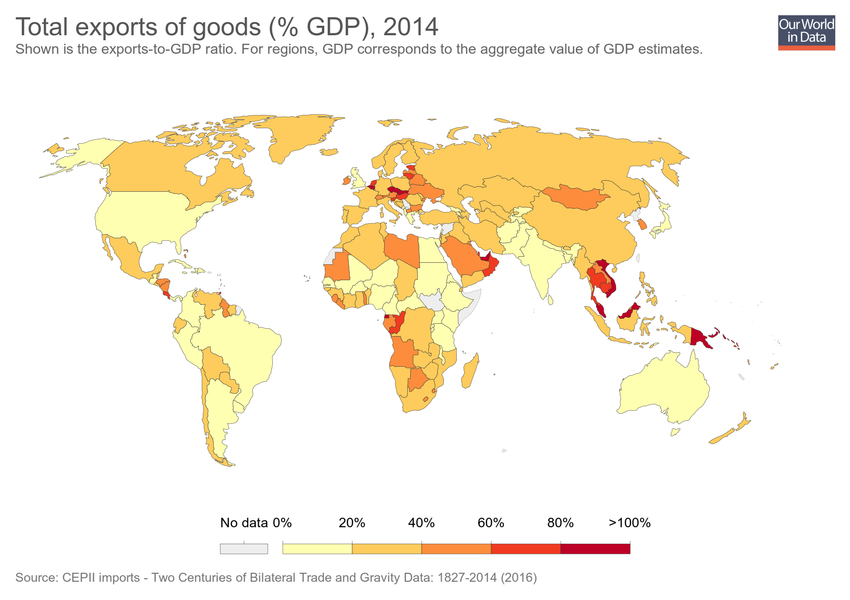
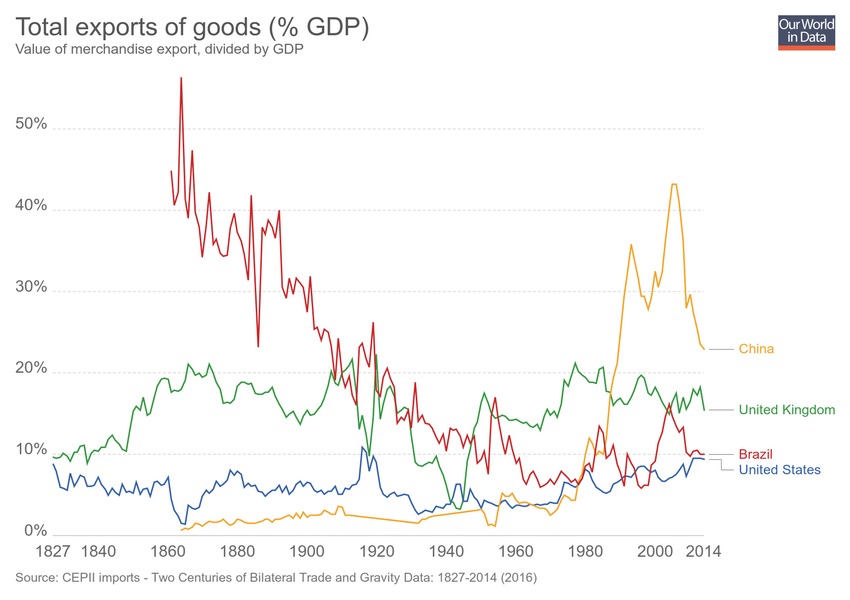
Updating chart merchandise-exports-gdp

diff --git a/grapher/merchandise-exports-gdp.html b/grapher/merchandise-exports-gdp.html
@@ -1,4 +1,4 @@
-<!doctype html><html><head><meta name="viewport" content="width=device-width, initial-scale=1" /><title>Total exports of goods (% GDP) - Our World in Data</title><meta name="description" content="Shown is the exports-to-GDP ratio. For regions, GDP corresponds to the aggregate value of GDP estimates." /><link rel="canonical" href="https://ourworldindata.org/grapher/merchandise-exports-gdp" /><meta property="fb:app_id" content="1149943818390250" /><meta property="og:url" content="https://ourworldindata.org/grapher/merchandise-exports-gdp" /><meta property="og:title" content="Total exports of goods (% GDP)" /><meta property="og:description" content="Shown is the exports-to-GDP ratio. For regions, GDP corresponds to the aggregate value of GDP estimates." /><meta property="og:image" content="https://ourworldindata.org/grapher/exports/merchandise-exports-gdp.png?v=10" /><meta property="og:image:width" content="850" /><meta property="og:image:height" content="600" /><meta property="og:site_name" content="Our World in Data" /><meta name="twitter:card" content="summary_large_image" /><meta name="twitter:site" content="@OurWorldInData" /><meta name="twitter:creator" content="@OurWorldInData" /><meta name="twitter:title" content="Total exports of goods (% GDP)" /><meta name="twitter:description" content="Shown is the exports-to-GDP ratio. For regions, GDP corresponds to the aggregate value of GDP estimates." /><meta name="twitter:image" content="https://ourworldindata.org/grapher/exports/merchandise-exports-gdp.png?v=10" /><style>
+<!doctype html><html><head><meta name="viewport" content="width=device-width, initial-scale=1" /><title>Total exports of goods (% GDP) - Our World in Data</title><meta name="description" content="Value of merchandise export, divided by GDP" /><link rel="canonical" href="https://ourworldindata.org/grapher/merchandise-exports-gdp" /><meta property="fb:app_id" content="1149943818390250" /><meta property="og:url" content="https://ourworldindata.org/grapher/merchandise-exports-gdp" /><meta property="og:title" content="Total exports of goods (% GDP)" /><meta property="og:description" content="Value of merchandise export, divided by GDP" /><meta property="og:image" content="https://ourworldindata.org/grapher/exports/merchandise-exports-gdp.png?v=11" /><meta property="og:image:width" content="850" /><meta property="og:image:height" content="600" /><meta property="og:site_name" content="Our World in Data" /><meta name="twitter:card" content="summary_large_image" /><meta name="twitter:site" content="@OurWorldInData" /><meta name="twitter:creator" content="@OurWorldInData" /><meta name="twitter:title" content="Total exports of goods (% GDP)" /><meta name="twitter:description" content="Value of merchandise export, divided by GDP" /><meta name="twitter:image" content="https://ourworldindata.org/grapher/exports/merchandise-exports-gdp.png?v=11" /><style>
         html, body {
             height: 100%;
             margin: 0;
@@ -20,8 +20,8 @@
         }
     </style><noscript><style>
                     figure { display: none !important; }
-                </style></noscript><link rel="stylesheet" href="https://ourworldindata.org/grapher/assets/commons.bundle.521782e703f0fe72f108.css" /><link rel="preload" href="/grapher/data/variables/93834.json?v=10" as="fetch" crossorigin /></head><body class="singleChart"><figure data-grapher-src="/grapher/merchandise-exports-gdp"></figure><noscript id="fallback"><img src="/grapher/exports/merchandise-exports-gdp.svg" /><p>Interactive visualization requires JavaScript</p></noscript><script src="https://cdn.polyfill.io/v2/polyfill.min.js?features=es6,fetch"></script><script src="https://ourworldindata.org/grapher/assets/commons.bundle.521782e703f0fe72f108.js"></script><script src="https://ourworldindata.org/grapher/assets/charts.bundle.521782e703f0fe72f108.js"></script><script>
-        var jsonConfig = {"id":2843,"map":{"projection":"World","targetYear":2014,"variableId":93834,"timeTolerance":3,"baseColorScheme":"YlOrRd","colorSchemeLabels":[],"colorSchemeValues":[],"customNumericColors":[],"customCategoryColors":{},"customCategoryLabels":{},"customHiddenCategories":{}},"tab":"map","slug":"merchandise-exports-gdp","type":"LineChart","title":"Total exports of goods (% GDP)","xAxis":{"scaleType":"linear"},"yAxis":{"min":0,"scaleType":"linear"},"version":10,"subtitle":"Shown is the exports-to-GDP ratio. For regions, GDP corresponds to the aggregate value of GDP estimates.","hasMapTab":true,"stackMode":"absolute","dimensions":[{"display":{},"property":"y","variableId":93834}],"hasChartTab":true,"isPublished":true,"selectedData":[{"index":0,"entityId":355}]};
+                </style></noscript><link rel="stylesheet" href="https://ourworldindata.org/grapher/assets/commons.bundle.521782e703f0fe72f108.css" /><link rel="preload" href="/grapher/data/variables/93834.json?v=11" as="fetch" crossorigin /></head><body class="singleChart"><figure data-grapher-src="/grapher/merchandise-exports-gdp"></figure><noscript id="fallback"><img src="/grapher/exports/merchandise-exports-gdp.svg" /><p>Interactive visualization requires JavaScript</p></noscript><script src="https://cdn.polyfill.io/v2/polyfill.min.js?features=es6,fetch"></script><script src="https://ourworldindata.org/grapher/assets/commons.bundle.521782e703f0fe72f108.js"></script><script src="https://ourworldindata.org/grapher/assets/charts.bundle.521782e703f0fe72f108.js"></script><script>
+        var jsonConfig = {"id":2843,"map":{"projection":"World","targetYear":2014,"variableId":93834,"timeTolerance":3,"baseColorScheme":"YlOrRd","colorSchemeLabels":[],"colorSchemeValues":[],"customNumericColors":[],"customCategoryColors":{},"customCategoryLabels":{},"customHiddenCategories":{}},"tab":"chart","slug":"merchandise-exports-gdp","type":"LineChart","title":"Total exports of goods (% GDP)","xAxis":{"scaleType":"linear"},"yAxis":{"min":0,"scaleType":"linear"},"version":11,"subtitle":"Value of merchandise export, divided by GDP","hasMapTab":true,"stackMode":"absolute","dimensions":[{"display":{},"property":"y","variableId":93834}],"hasChartTab":true,"isPublished":true,"selectedData":[{"index":0,"entityId":1},{"index":0,"entityId":13},{"index":0,"entityId":171},{"index":0,"entityId":37}]};
         var figure = document.getElementsByTagName("figure")[0];
         try {
             window.App = {};
